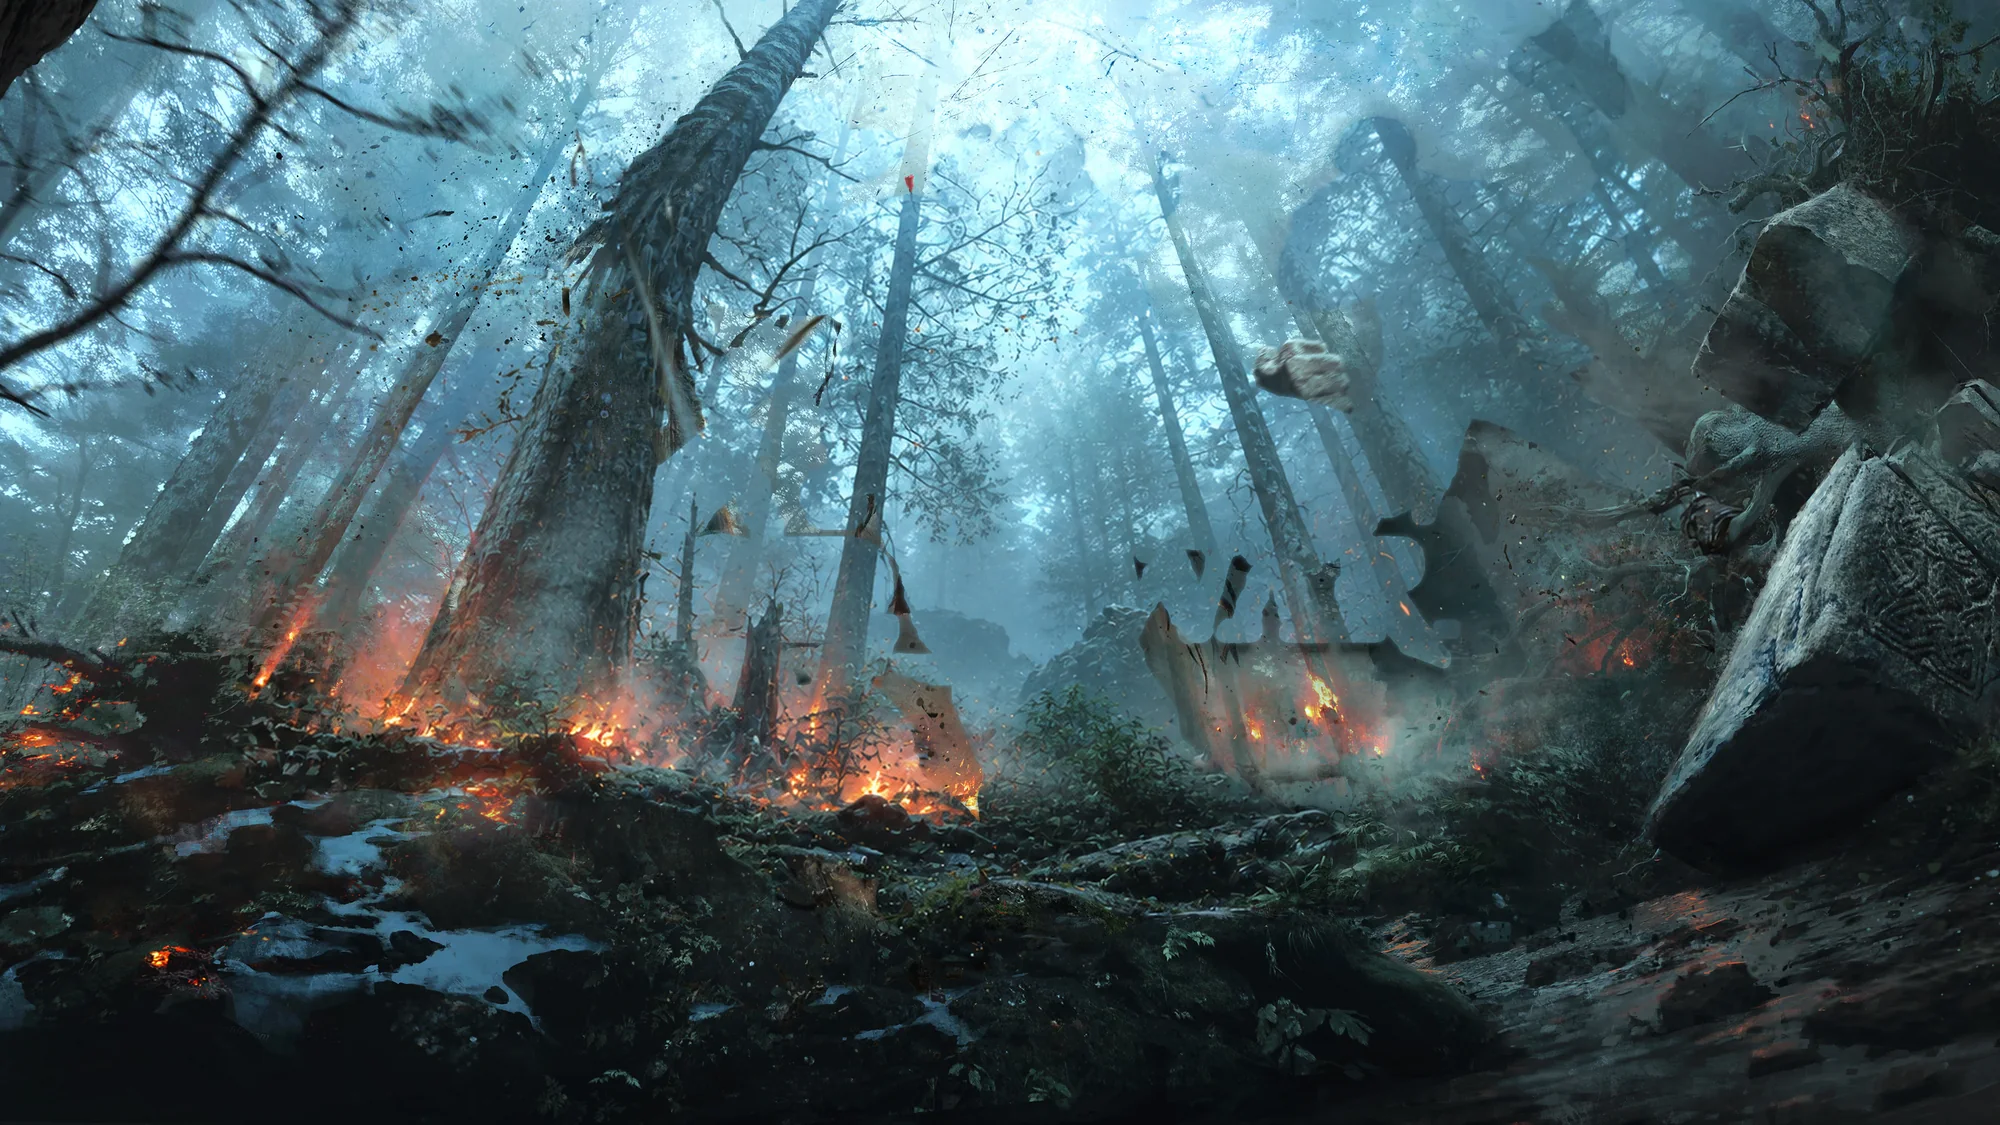
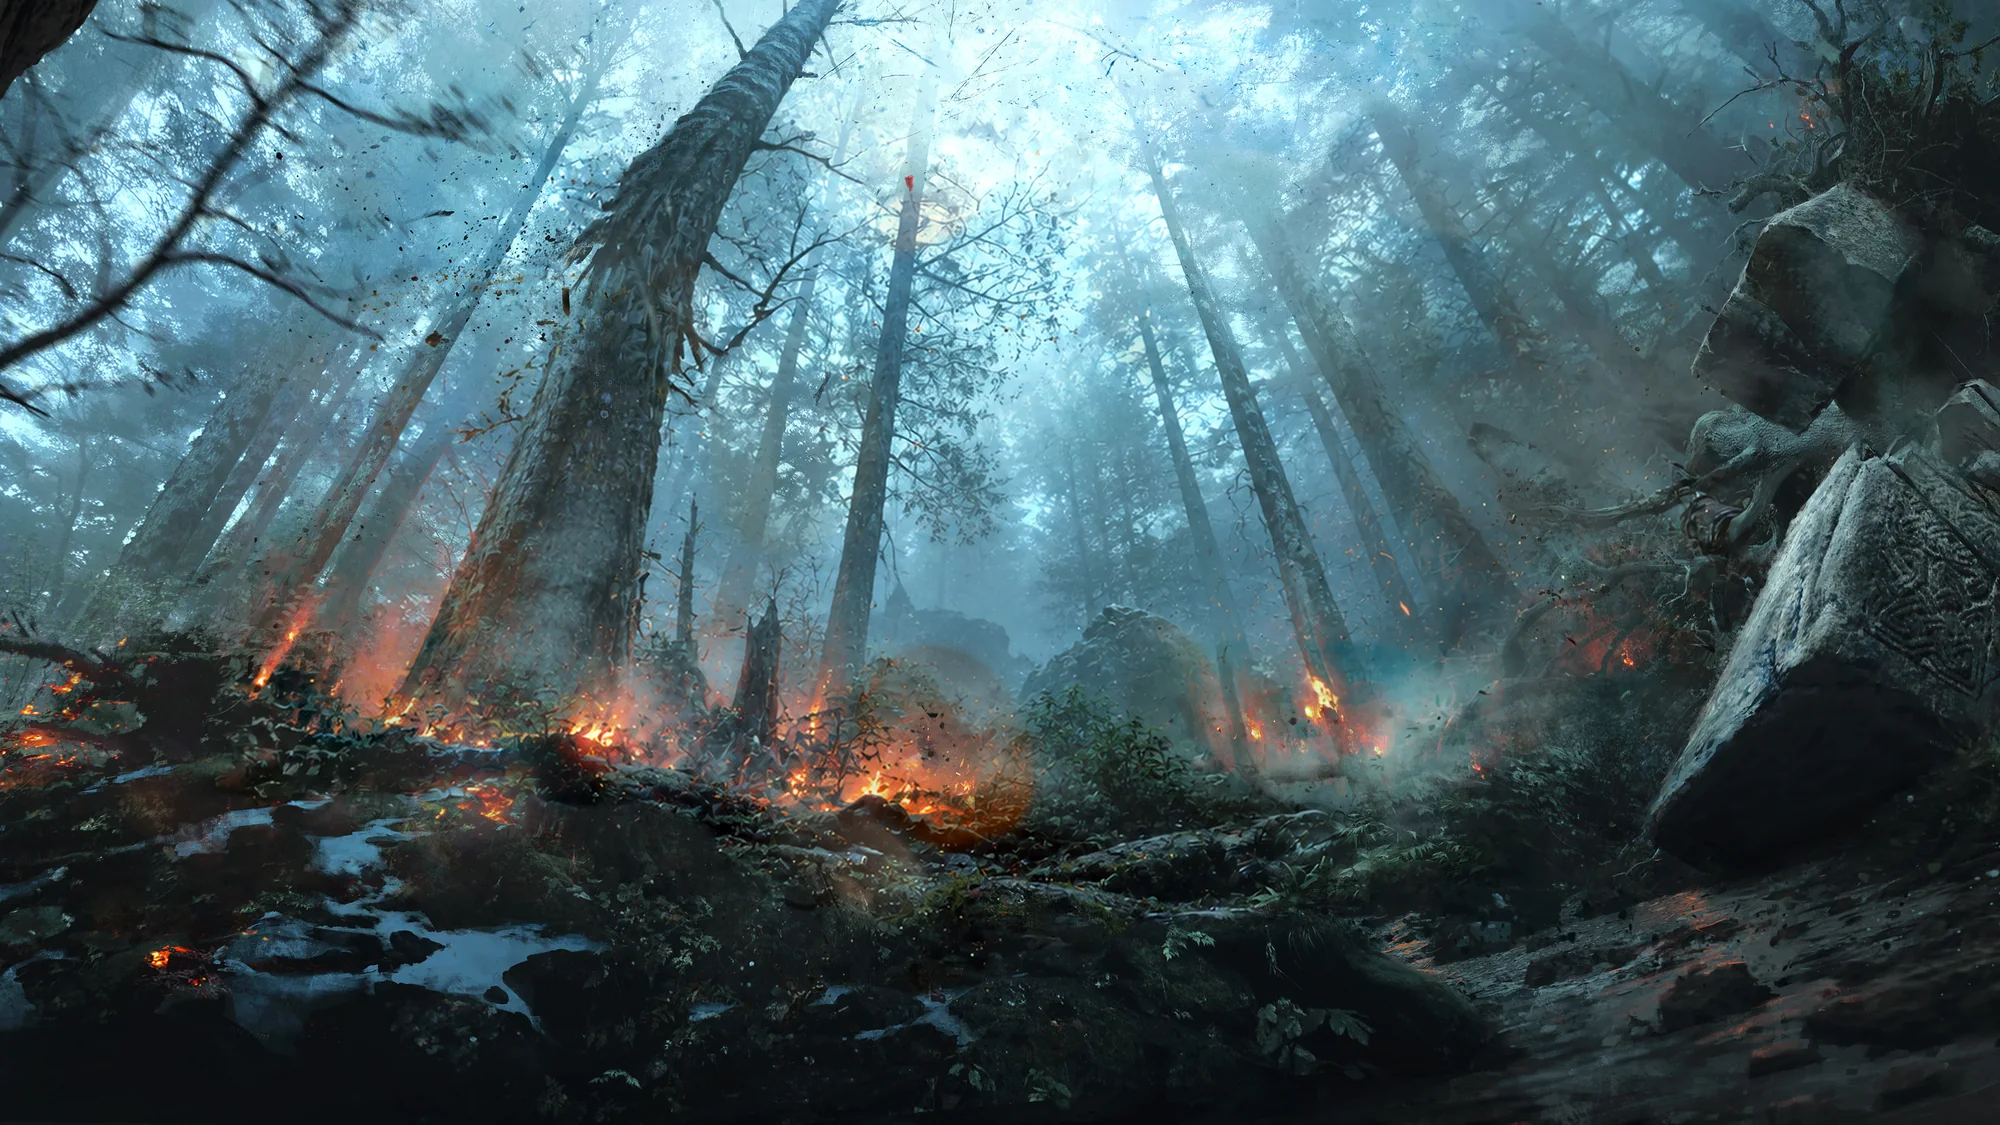
Preserve God of War alpha layers with constrained parallax depths

diff --git a/Resources/Projects/GoW/parallax/build.py b/Resources/Projects/GoW/parallax/build.py
@@ -1,0 +1,107 @@
+from pathlib import Path
+import json,hashlib
+import numpy as np,cv2
+from PIL import Image,ImageDraw,ImageFont
+from scipy.ndimage import binary_fill_holes, gaussian_filter
+ROOT=Path(__file__).resolve().parents[4]
+P=Path(__file__).resolve().parent; O=ROOT/'Resources/Site/img/layers/gow'; S=ROOT/'.local/shots'; M=P/'masters'
+for folder in [O,S,M]: folder.mkdir(exist_ok=True,parents=True)
+src=Image.open(P/'source.png').convert('RGB');rgb=np.array(src);H,W=rgb.shape[:2]
+def read(n):return np.array(Image.open(P/(n+'.png')))>0
+def union(*names):return np.logical_or.reduce([read(n) for n in names])
+def drawlines(m,lines):
+ a=Image.fromarray(m.astype('uint8')*255);d=ImageDraw.Draw(a)
+ for pts,width in lines:d.line(pts,fill=255,width=width)
+ return np.array(a)>0
+masks={}
+masks['troll']=union('troll-sam-1','skulls-sam-0','skulls-sam-3','skulls-sam-4','strap-sam-13','stone-sam-8')
+masks['kratos']=union('kratos-sam-0','axe-sam-0')
+masks['atreus']=union('atreus-sam-0','bow-sam-0','quiver-sam-1','quiver_crop-sam-2','strap-sam-12')
+# Bowstring and arrow retain only the narrow original source pixels.
+masks['atreus']=drawlines(masks['atreus'],[([(1135,275),(1268,807)],4), ([(1265,914),(1593,642)],5)])
+logo=read('logo-sam-0'); grey=rgb.mean(2);red=(rgb[:,:,0].astype(float)>rgb[:,:,1]*1.6)&(rgb[:,:,0]>65)
+dist=cv2.distanceTransform(logo.astype('uint8'),cv2.DIST_L2,5)
+logo &= (dist>5)|(grey>65)|red
+# Remove mistakenly included dark background around OF; preserve the real stone lettering.
+x1,y1,x2,y2=1825,1075,2010,1190
+r=rgb[y1:y2,x1:x2].astype(float); a=(r.mean(2)>84)&(r.max(2)-r.min(2)<90)
+a=cv2.morphologyEx(a.astype('uint8'),cv2.MORPH_CLOSE,np.ones((3,3),np.uint8))>0
+logo[y1:y2,x1:x2] &= a
+# TM is too small for whole-frame semantic segmentation.
+x1,y1,x2,y2=2760,1196,2800,1228
+logo[y1:y2,x1:x2]=rgb[y1:y2,x1:x2].min(2)>130
+masks['logo']=logo
+# Generated clean pass supplies only missing silhouette masks near the logo.
+# Its RGB is never used for figures without explicit permission.
+roi=np.zeros((H,W),bool);roi[965:1480,1020:2870]=True
+for name,clean in [('troll','troll_clean-sam-0'),('atreus','atreus_clean-sam-0')]:
+ masks[name] |= read(clean)&roi
+ # Remove original printed glyphs, retaining original RGB in every visible pixel.
+ masks[name] &= ~logo
+# The rear leg is mostly mist and was omitted by whole-frame SAM.
+rear=np.zeros((H,W),bool);rear[900:1490,2590:2890]=True
+masks['troll'] |= read('troll_clean-sam-0')&rear&~logo
+# Trace the low-contrast rear foot hidden in fog; semantic model missed this edge.
+rearfoot=Image.new('L',(W,H));rd=ImageDraw.Draw(rearfoot)
+rd.polygon([(2660,845),(2738,858),(2770,872),(2811,878),(2851,911),(2861,987),(2896,1030),(2932,1106),(2920,1160),(2877,1207),(2862,1256),(2870,1290),(2825,1340),(2770,1380),(2690,1360),(2650,1310),(2602,1190),(2530,1105),(2480,1005)],fill=255)
+rf=np.array(rearfoot)>0
+masks['troll'] |= rf&~logo&~masks['kratos']
+# All alphas remain full-frame and all cutout RGB samples remain source RGB.
+alphas={}
+for name,m in masks.items():
+ d1=cv2.distanceTransform(m.astype('uint8'),cv2.DIST_L2,5);d0=cv2.distanceTransform((~m).astype('uint8'),cv2.DIST_L2,5)
+ a=np.clip(.5+(d1-d0)/2.4,0,1)
+ if name=='troll':
+  a=gaussian_filter(a,.7)
+  soft=gaussian_filter(a,5)
+  yy,xx=np.indices(a.shape); region=(xx>2650)&(yy>940)
+  a[region]=soft[region]
+ alphas[name]=a
+ Image.fromarray(np.round(a*255).astype('uint8')).save(P/(name+'-alpha.png'))
+# Fill the deleted subjects and counters of the logo on the plate; preserve all other pixels.
+remove=np.logical_or.reduce([binary_fill_holes(m) for m in masks.values()])
+remove |= read('troll_clean-sam-0')|read('atreus_clean-sam-0')|rf
+# Include hanging wrist straps and bowstring remnants in the background removal.
+extra=Image.new('L',(W,H));ed=ImageDraw.Draw(extra)
+ed.polygon([(1320,563),(1380,570),(1425,844),(1400,900),(1330,1000),(1230,960),(1200,845)],fill=255)
+ed.polygon([(1410,542),(1600,570),(1580,685),(1470,735),(1395,655)],fill=255)
+ed.ellipse((1065,225,1200,430),fill=255)
+remove |= np.array(extra)>0
+# Logo shadow and detached ragged hem need a continuous removal zone.
+shadow=Image.new('L',(W,H));d=ImageDraw.Draw(shadow)
+d.polygon([(int(x*1.875),int(y*1.875)) for x,y in [(550,546),(920,510),(1090,505),(1460,545),(1500,670),(1390,712),(1110,704),(908,710),(550,696)]],fill=255)
+remove |= np.array(shadow)>0
+remove=cv2.dilate(remove.astype('uint8'),cv2.getStructuringElement(cv2.MORPH_ELLIPSE,(37,37)))
+blend=gaussian_filter(remove.astype(float),12)
+blend[remove>0]=1;blend[blend<.001]=0;blend=np.round(blend*255)/255
+# Blend support is explicit and saved. A broad guide was supplied to GPT; only this local mask is applied.
+gen=np.array(Image.open(P/'plate-generated.png').convert('RGB').resize(src.size,Image.Resampling.LANCZOS))
+# Match nearby low-frequency illumination across the edge of the inpaint support.
+valid=1-cv2.dilate(remove.astype('uint8'),np.ones((25,25),np.uint8)).astype(float)
+small=(960,540);v=cv2.resize(valid,small);delta=cv2.resize(rgb.astype(float)-gen.astype(float),small)
+den=gaussian_filter(v,10);correction=np.stack([gaussian_filter(delta[:,:,c]*v,10)/np.maximum(den,.001) for c in range(3)],axis=2)
+correction=cv2.resize(correction,(W,H));gen=np.clip(gen.astype(float)+correction,0,255)
+plate=np.round(rgb*(1-blend[:,:,None])+gen*blend[:,:,None]).astype('uint8')
+Image.fromarray(np.round(blend*255).astype('uint8')).save(P/'plate-applied-mask.png')
+Image.fromarray(plate).save(M/'plate.png')
+Image.fromarray(plate).resize((2000,1125),Image.Resampling.LANCZOS).save(O/'plate.webp',quality=84,method=6)
+for name,a in alphas.items():
+ cutrgb=rgb.copy();cutrgb[a==0]=0
+ rgba=Image.fromarray(np.dstack((cutrgb,np.round(a*255).astype('uint8'))));rgba.save(M/(name+'.png'))
+ rgba.resize((2000,1125),Image.Resampling.LANCZOS).save(O/(name+'.webp'),quality=84,method=6,exact=True)
+names=['plate','troll','kratos','atreus','logo'];depths=[0,.6,.55,.6,.6]
+manifest=[{'name':n,'src':'/Resources/Site/img/layers/gow/'+n+'.webp','depth':d} for n,d in zip(names,depths)]
+(O/'layers.json').write_text(json.dumps(manifest,indent=2)+'\n')
+layers=[Image.open(O/(n+'.webp')).convert('RGBA') for n in names]; comp=layers[0].copy();exp=layers[0].copy()
+for im,d in zip(layers[1:],depths[1:]):comp.alpha_composite(im);exp.alpha_composite(im,(0,-round(d*60)))
+comp.convert('RGB').save(S/'gow-layers-composite.jpg',quality=95,subsampling=0)
+exp.convert('RGB').save(S/'gow-layers-exploded.jpg',quality=95,subsampling=0)
+layers[0].convert('RGB').save(S/'gow-layers-plate.jpg',quality=95,subsampling=0)
+out=Image.new('RGB',(1600,1410),(24,28,31));draw=ImageDraw.Draw(out)
+y,x=np.indices((450,800));ch=np.where(((x//20+y//20)%2)[:,:,None],110,155).astype('uint8');ch=np.repeat(ch,3,2)
+for i,(name,im) in enumerate(zip(names,layers)):
+ bg=Image.fromarray(ch).convert('RGBA');bg.alpha_composite(im.resize((800,450),Image.Resampling.LANCZOS));xx=i%2*800;yy=i//2*470;out.paste(bg,(xx,yy+20));draw.text((xx+10,yy+4),name,fill='white')
+out.save(S/'gow-layers-sheet.jpg',quality=95,subsampling=0)
+ref=np.array(src.resize((2000,1125),Image.Resampling.LANCZOS)).astype(float); diff=np.abs(np.array(comp.convert('RGB')).astype(float)-ref)
+report={'source_sha256':hashlib.sha256((P/'source.png').read_bytes()).hexdigest(),'composite_mae_0_255':float(diff.mean()),'composite_mae_percent':float(diff.mean()/255*100),'web_bytes':{n:(O/(n+'.webp')).stat().st_size for n in names},'plate_unchanged_percent':float((blend==0).mean()*100),'figure_rgb_original':True,'hidden_logo_repairs':False}
+(P/'verification.json').write_text(json.dumps(report,indent=2));print(json.dumps(report,indent=2))

diff --git a/Resources/Projects/GoW/parallax/verify.py b/Resources/Projects/GoW/parallax/verify.py
@@ -1,0 +1,18 @@
+from pathlib import Path
+import numpy as np,json,hashlib
+from PIL import Image
+P=Path('Resources/Projects/GoW/parallax'); O=Path('Resources/Site/img/layers/gow');S=Path('.local/shots')
+names=['plate','troll','kratos','atreus','logo'];src=np.array(Image.open(P/'source.png').convert('RGB')); report=json.loads((P/'verification.json').read_text())
+for n in names:
+ im=Image.open(P/'masters'/f'{n}.png');assert im.size==(3840,2160)
+ web=Image.open(O/f'{n}.webp');assert web.size==(2000,1125)
+ assert not any(k in web.info for k in ['exif','icc_profile','xmp'])
+ if n!='plate':
+  a=np.array(im);assert a.shape[2]==4;assert np.array_equal(a[:,:,:3][a[:,:,3]>0],src[a[:,:,3]>0]);assert a[:,:,3].min()==0
+mask=np.array(Image.open(P/'plate-applied-mask.png'));plate=np.array(Image.open(P/'masters/plate.png'))
+assert np.array_equal(plate[mask==0],src[mask==0])
+assert hashlib.sha256(Path('.local/tmp/gow-banner-clean-full.png').read_bytes()).hexdigest()==report['source_sha256']
+ref=np.array(Image.fromarray(src).resize((2000,1125),Image.Resampling.LANCZOS)).astype(float)
+jpg=np.array(Image.open(S/'gow-layers-composite.jpg')).astype(float)
+report.update({'jpeg_composite_mae_0_255':float(np.abs(ref-jpg).mean()),'web_total_bytes':sum(report['web_bytes'].values()),'master_bytes':{n:(P/'masters'/f'{n}.png').stat().st_size for n in names},'verification_images_bytes':{n:(S/f'gow-layers-{n}.jpg').stat().st_size for n in ['composite','exploded','plate','sheet']},'depths':{x['name']:x['depth'] for x in json.loads((O/'layers.json').read_text())},'checks':{'master_dimensions':True,'web_dimensions':True,'metadata_stripped':True,'visible_cutout_rgb_equals_source':True,'plate_outside_mask_equals_source':True,'input_unchanged':True},'limitation':'Troll, Atreus and logo must share depth. Logo-occluded pixels are unavailable in the source; no generated figure RGB was applied. Independent depths expose glyph-shaped holes. Thin hair, bowstring and mist edges are approximate.'})
+(P/'verification.json').write_text(json.dumps(report,indent=2)+'\n');print(json.dumps(report,indent=2))

diff --git a/Resources/Projects/GoW/parallax/README.md b/Resources/Projects/GoW/parallax/README.md
@@ -1,0 +1,43 @@
+# God of War parallax assets
+
+Five aligned 3840x2160 PNG masters are in `masters/`; web outputs are 2000x1125 quality-84 WebP in `Resources/Site/img/layers/gow/`. `layers.json` is ordered back to front. The original input is unchanged. `source.png` is its byte-identical preservation copy.
+
+## Important depth constraint
+
+The source logo occludes both the troll and Atreus. There are no original figure pixels beneath those glyphs. No generated RGB has been used in any figure or logo layer. Consequently **troll, Atreus and logo share depth 0.6**; Kratos is 0.55 and the plate is 0. The supplied exploded preview uses these values times -60 pixels. Changing the three linked layers to independent depths exposes glyph-shaped transparency. Independent motion requires approval to reconstruct hidden figure patches. This is a constrained original-pixel result, not a fully independent five-depth reconstruction.
+
+## Methods
+
+- Plate: built-in GPT image editing, original source plus white-edit/black-preserve mask reference. The built-in tool has no native mask parameter: `plate-guide-mask.png` was supplied as a second image. The result is resized to source resolution, locally color-matched and composited through the saved `plate-applied-mask.png`. All pixels outside this applied mask are byte-identical to the input. Original right-hand rocks, carved stone and flying debris remain in the plate; no separate foreground layer.
+- Troll: cached local facebook/SAM3 segmentation of the original, separate skull and strap masks, manually traced foggy rear foot, and soft mist edge. A second GPT edit removing only the logo was used solely to recover missing silhouette masks near the logo. All visible RGB is copied from the original.
+- Kratos: original SAM3 person mask unioned with original axe mask, with a narrow antialiased edge. Original RGB only.
+- Atreus: original SAM3 boy, bow, quiver, arrows and strap masks; narrow manually traced bowstring/arrow details. Original RGB only. Ground is retained in the plate.
+- Logo: original SAM3 text mask refined by source color/edge constraints; corrected OF counters and separately thresholded TM. Original letter and omega textures are retained.
+
+SAM3 was reused from `D:/AIModels/huggingface/hub/models--facebook--sam3/snapshots/3c879f39826c281e95690f02c7821c4de09afae7`. No model weights were downloaded. Masks are preserved here, so rebuilding does not require SAM3 or image generation.
+
+## Verification and honest assessment
+
+- Decoded WebP stack versus Lanczos-downscaled input: RGB mean absolute difference **4.530408/255 (1.7766%)**.
+- Saved JPEG composite versus the same reference: **4.719648/255** (includes JPEG compression).
+- Total WebP bytes: **646,936**.
+- Full-resolution plate pixels retained exactly: **60.4016%**; removal, shadow and feather support occupies the rest. The removal support includes some surrounding background for seam blending, so this is not a claim that every originally visible forest pixel was retained.
+- All masters and WebP dimensions, stripped EXIF/ICC/XMP, cutout RGB equality on nonzero-alpha master pixels, unchanged input SHA-256, and exact plate pixels outside the applied mask were checked.
+- Visually reviewed composite, shifted preview, plate and checkerboard sheet. No recognizable figure or logo ghosts remain in the plate. Generated forest structure and lighting in the removal support differ from the source; the aligned composite is close, not pixel-identical.
+- Main silhouettes are usable for subtle motion at the supplied linked depths. Fine hair, blurred bowstring, ragged fabric and the foggy rear foot are approximate; some edge background contamination remains. These are not production roto mattes for large independent displacement. The contact sheet intentionally shows logo-shaped gaps in the original-only troll and Atreus layers.
+- `review/` preserves the same verification JPEGs delivered to `.local/shots/`.
+
+## Rebuild
+
+From repository root, with Python containing Pillow, NumPy, SciPy and OpenCV:
+
+```powershell
+& C:/Users/mikek/miniconda3/envs/comfyui/python.exe Resources/Projects/GoW/parallax/build.py
+& C:/Users/mikek/miniconda3/envs/comfyui/python.exe Resources/Projects/GoW/parallax/verify.py
+```
+
+The build preserves metadata-free masters, masks, WebPs, manifest and verification images. `verification.json` records dimensions/pixel checks, sizes and errors. Do not change linked depths without repairing occlusions.
+
+## Preservation
+
+These assets, reconstruction inputs and reviews are preserved in local Git commits. DT_Backup's source list did not show this portfolio as a selected project. The latest inspected suite run (2026-10-12) failed; app profile failed and project profile succeeded. No new backup or remote push is claimed; no backup selections or warning files were changed.
